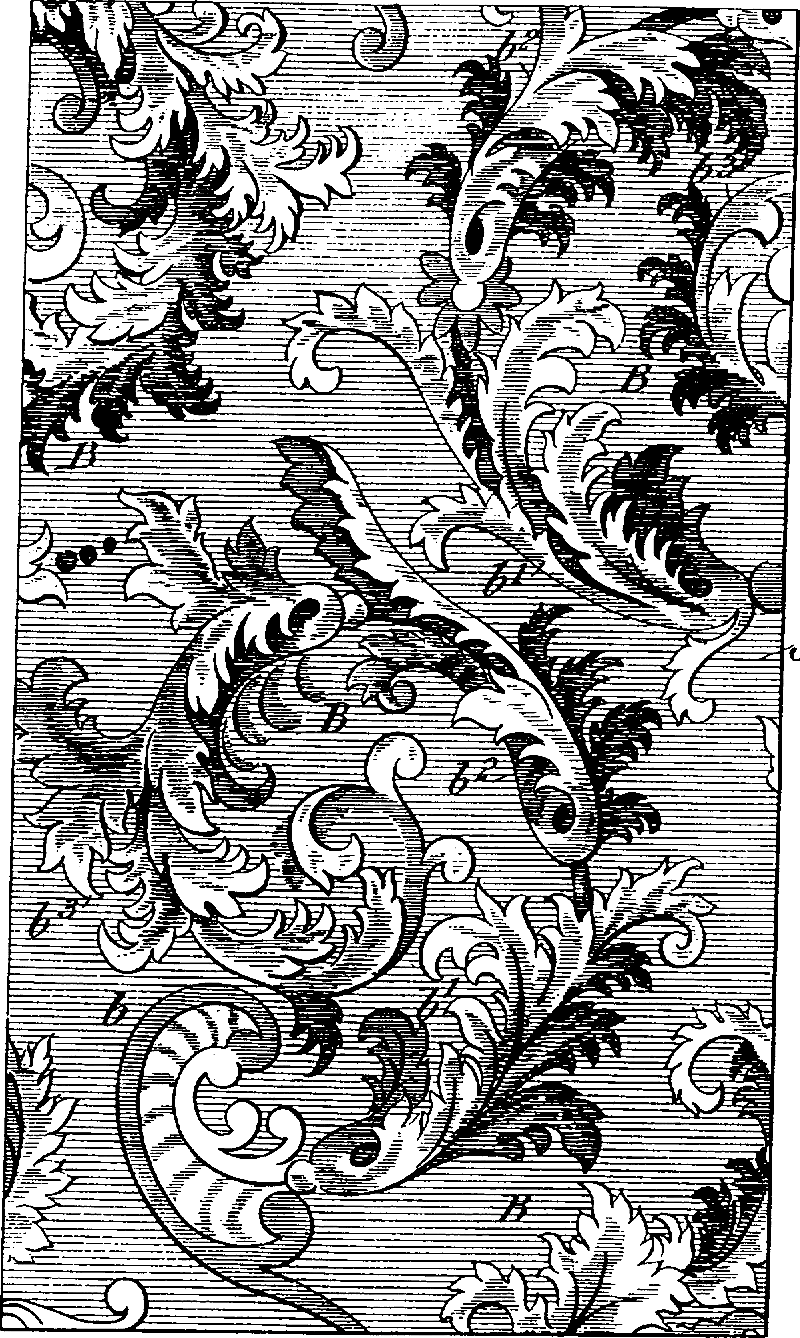
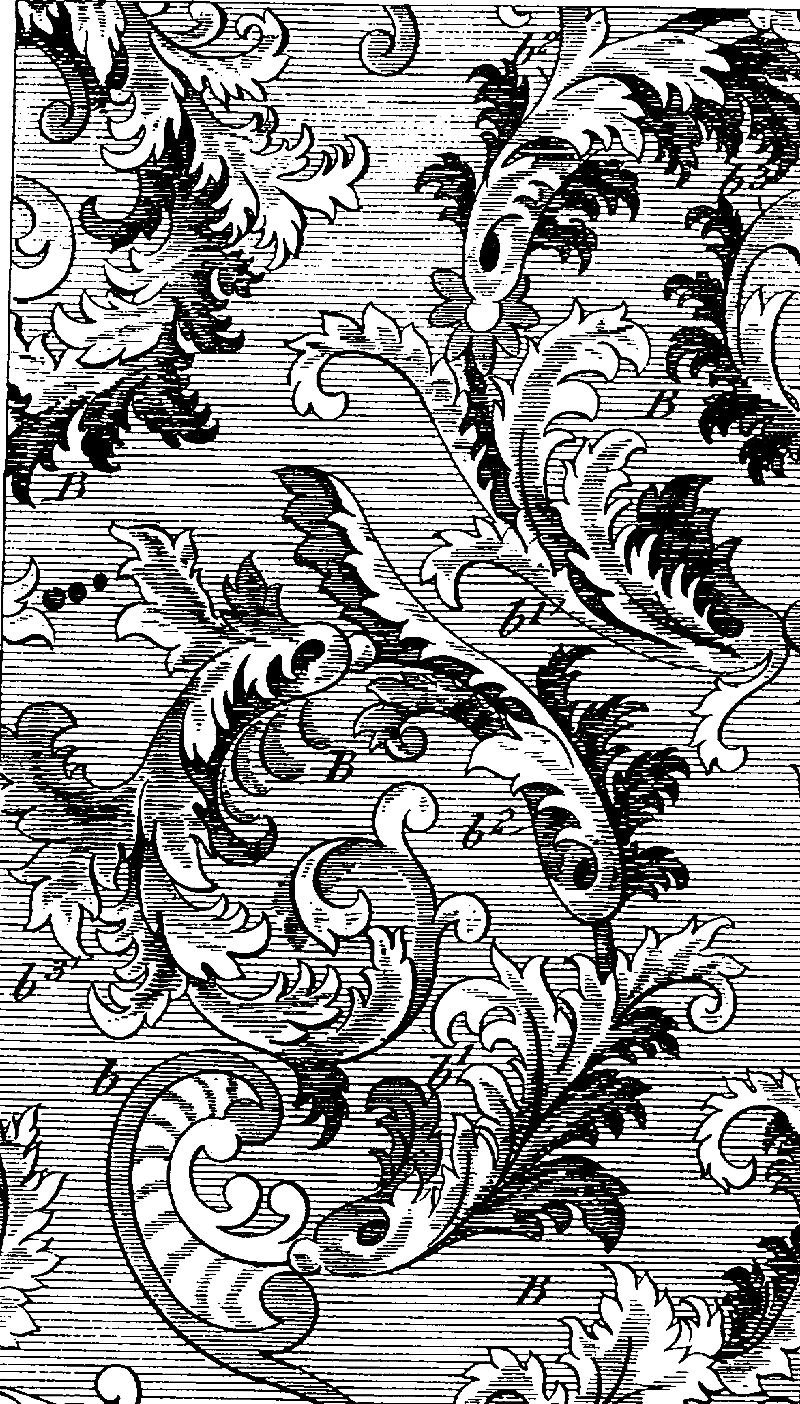
fix: close visible gap between 1896 carpet header tiles (#21)
The initial crop for images/pmr-carpet-1896-mask.png (content bbox by a
flat 2%-ink threshold) let a blank-paper margin into the tile -- ink
density faded from the pattern's typical ~35-48% down to ~3-16% over the
outer ~20px on the left/right edges. Adjacent tiles abutted that fade
band instead of continuous pattern, showing as a vertical gap once tiled
across a full page width in production (not visible in the narrower
local screenshot check).

Re-cropped inward past the fade band -- (38,14)-(978,1664) from the
original supplied image, vs. the earlier (18,14)-(1022,1693) -- located
via a column/row ink-density profile. Re-verified with a 3x3 tile test
and a fresh four-theme screenshot before shipping. Derivation notes and
the corrected bounds are in images/pmr-carpet-1896-SOURCE.md.

Claude-Session: https://claude.ai/code/session_01UXiQ7wudC3AxgGH66UcMYa

diff --git a/README.md b/README.md
@@ -255,6 +255,7 @@ Corrections, additional patents, and better sourcing are welcome — open an iss
 - **Added a faint carpet texture to the header banner**, replacing the flat `--header-bg` fill with the same USD28,278 (Crowe, 1898, expired design patent) weave used as the page-wide background on postmillenniumrenaissance.com. Implemented as a `header::before` pseudo-element masked with `images/pmr-carpet-1898-mask.png` (copied into this repo from the main site's `images/` folder, with its derivation notes in `images/pmr-carpet-1898-SOURCE.md`), tinted white at 8% opacity since `--header-bg` is dark in all four themes, tiled at a smaller 260px repeat to suit the shorter header band. Purely visual — no data, schema, or JS logic touched. Unverified visually beyond a code read, per this project's "no browser rendering check available" convention; a session with screenshot access should confirm it reads correctly across all four themes before calling it final.
 - **Added Hugo Auguste Becker's 1890 spring-suspended velocipede frame (US 439,095) — the oldest entry in the suspension category, 104 years ahead of the next-earliest (Horst Leitner's 1994 Horst Link).** The user supplied both sheets of the actual patent drawings directly (`pictures/US439095-becker-page-1.png` and `-page-2.png`), which is as close to a primary source as this dataset gets — number, title ("Velocipede"), inventor's own signature, and the Oct. 28, 1890 grant date are all legible straight off the document, independently cross-confirmed by a Google Patents search hit matching the same number, title, and inventor name. Filed Oct. 19, 1889, this predates the post-GATT rule, so `exp` follows the pre-1995 formula (grant + 17 = 1907), not the modern filing + 20 used almost everywhere else in this atlas. The design hinges the frame into front and rear sections, each cushioned by its own coil spring at the joint — cushioning the whole frame rather than isolating wheel travel, a genuinely different approach from every later entry in this category. Tiered `"v"`. Sheet 1 (Fig. 1, the full velocipede) is used as the entry's `img`; sheet 2 (Figs. 2–3, the close-up spring-joint mechanism) is real and sourced but unused for now — this schema supports one image per entry, so it sits in `pictures/` as a candidate for a future multi-image feature rather than being discarded. One thing not independently confirmed this pass: search-summary text named a specific hometown for Becker, but given this session's own recent, direct experience with that summarizer fabricating a detail on an unrelated patent (see the RatioX note above), that claim wasn't trusted enough to repeat here — the entry states only what the primary document and a separate, matching search result actually support. Registered `Hugo Auguste Becker` in `INVENTORS`, following the same one-off-historical-figure precedent as Eugène Meyer and James Starley.
 - **Swapped the header texture to a second Eugene A. Crowe carpet design: US Design Patent 25,495** ("Carpet," patented May 12, 1896, also assigned to the E. S. Higgins Carpet Company — a sibling to USD28,278, the 1898 pattern this replaces in the header and that stays in use as the page-wide texture on postmillenniumrenaissance.com). Same public-domain basis as its sibling (an 1890s design-patent term of at most 14 years, well over a century expired). Jon supplied the plate image directly rather than it being fetched from the PDF link this pass — see `images/pmr-carpet-1896-SOURCE.md` for the full derivation (content-bbox crop, Lanczos downscale to 800px wide, Otsu threshold with a soft ramp into a transparent alpha mask) and the honest caveat on it: the patent number/date/assignee were read off the OCR text supplied alongside the image, not independently re-confirmed against the source PDF, since that host is one of this session's blocked egress targets. Same `header::before` mechanism as before (white at 8% opacity, 260px tile) — only the mask file changed. Visually confirmed via Playwright screenshot across all four themes before shipping.
+- **Fixed a visible gap between header tiles, spotted live on postmillenniumrenaissance.com after the swap above shipped.** The initial 1896 mask crop kept a blank-paper margin (ink density fading toward the outer ~20px on the left/right edges) that the local screenshot check hadn't caught, because at small scale it just looked like faint background rather than a seam — full-page production tiling made it obvious. Re-cropped inward past the fade band (see `images/pmr-carpet-1896-SOURCE.md` for the density-profile method and the corrected crop bounds) and re-verified with a 3×3 tile test plus a fresh four-theme screenshot before re-shipping. Same files, same wiring — only the crop changed.
 - **Added drawing images to the existing Split Pivot entry (US 7,717,212).** The user also supplied `pictures/US7717212B2.png` (Fig. 8, the concentric-pivot bearing/seal stack) and `US7717212B2_b.png` (Fig. 4, the full-bike linkage view) for Dave Weagle's Split Pivot patent, which had no image despite its direct rival, Trek's ABP (US 7,837,213), already carrying one. Used Fig. 8 as the entry's `img` — it's the direct visual counterpart to ABP's own Fig. 5 bearing-stack drawing a few lines down, letting a reader compare the two patents' hardware side by side, and the entry's `w` text now points that comparison out explicitly. Fig. 4 (the full-bike view) is real and sourced but unused for the same one-image-per-entry reason as the Becker page 2 above.
 - **Counts synced**: README At-a-glance table (272→273 total, 90→91 expired, 52→53 named inventors, 151→152 verified) and all seven hardcoded `index.html` count strings (three meta description tags, EN/FR `shareText`, EN/FR `mtBannerText`, the CSS-comment "N-entry data block" note).
 - **Share, copy-link, and cite-this-entry links now point at `postmillenniumrenaissance.com/atlas/` instead of the raw `github.io` URL.** Requested directly: the reader-facing links this tool hands out should look like the product's own address, not its GitHub Pages implementation detail. All four call sites (`cardHTML()`'s `citeUrl`, the per-card share button, and the general Share menu's copy/X/Facebook/Reddit options) now build off a new `SHARE_BASE_URL` constant (`https://postmillenniumrenaissance.com/atlas/`, bare domain to match `og:url` on every other page across pmr-website) instead of `location.origin`/`location.href`, which reflected wherever this document actually loaded from rather than its public address. This works with zero changes needed on the pmr-website side: `atlas/index.html` there already reads its own `location.hash` on load and appends it onto this tool's iframe `src`, so `https://postmillenniumrenaissance.com/atlas/#p=maestro-suspension` already deep-links correctly today, the same way a bare `github.io` link always has — confirmed by reading that file directly rather than assuming. Two URL shapes proposed in the request (`/atlas/maestro`, and a bare `#maestro` without the `p=` prefix) were considered and not used: a path-only form needs real server-side routing this static, no-build GitHub Pages site doesn't have (would mean pre-generating a real file per patent slug, a maintenance burden every future entry would inherit), and a bare-slug hash needs a second, parallel parsing branch alongside the existing structured `#p=`/`#cat=`/`#q=` scheme this tool's `HASH_SETS`-based router already handles — both flagged as the kind of restructuring this file's own conventions say to raise before doing, not fold into a same-pass link-format change. The existing internal address-bar-sync behavior (`syncHash()`/`history.replaceState`, used for the browser back button and bookmarking while standalone) is untouched — it still reflects wherever this document is actually running, which is a different, narrower job than the public share link now does; both are now documented separately under *Embedding in Pinkbike or similar platforms* above, where they used to be one conflated paragraph.

diff --git a/images/pmr-carpet-1896-SOURCE.md b/images/pmr-carpet-1896-SOURCE.md
@@ -21,20 +21,30 @@ constraint below).
 **How the assets were made:**
 1. Started from the plate image as supplied (1098×1710px), no PDF re-render
    available this pass — see constraint note below.
-2. Found the content bounding box by per-row/per-column ink-density
-   thresholding (rows/cols above 2% ink), trimming the surrounding margin —
-   crop: (18, 14)–(1022, 1693), 1004×1679px.
-3. Verified seamlessness by tiling 3×3 at full resolution and inspecting the
-   result: the B/B²/b/b²/b³ reference-letter clusters rejoin correctly
-   across the boundary, matching the sibling pattern's own verification
-   method. A faint vertical/horizontal seam from the crop edge is visible at
-   full resolution but reads as part of the engraving's own hachure grain at
-   the size and opacity this mask is actually used at (8% opacity, 260px
-   tile in the header).
-4. Downscaled to 800px wide (1338px tall) with Lanczos resampling before
-   thresholding, same as the sibling asset, so the fine hachure lines
-   average into clean gray instead of aliasing into moiré.
-5. Otsu-thresholded (threshold 135 on the downscaled grayscale) with a soft
+2. First pass found the content bounding box by per-row/per-column
+   ink-density thresholding (rows/cols above 2% ink): crop (18, 14)–(1022,
+   1693), 1004×1679px. **This crop shipped initially and produced a visible
+   vertical gap between tiles in production** — the 2%-ink threshold let a
+   genuine blank-paper margin (ink density fading from the pattern's typical
+   ~35–48% down to ~3–16% over roughly the outer 20px on the left/right
+   edges) into the crop, so adjacent tiles abutted a strip of near-empty
+   canvas instead of continuous pattern. A full column/row density profile
+   (20px bands across the whole crop) made the fade bands visible and
+   located the true edge of the repeat content.
+3. **Corrected crop**, trimmed inward past the fade bands: (38, 14)–(978,
+   1664) from the original supplied image, 940×1650px. Row density was
+   already consistent edge-to-edge (no comparable vertical fade), so only
+   the left/right/very-bottom margin needed trimming.
+4. Verified seamlessness by tiling 3×3 at full resolution: the B/B²/b/b²/b³
+   reference-letter clusters rejoin correctly across the boundary with no
+   visible seam, matching the sibling pattern's own verification method —
+   confirmed again after the crop correction, at the actual 260px header
+   tile size and 8% opacity, before shipping the fix.
+5. Downscaled to 800px wide (1404px tall, from the corrected crop) with
+   Lanczos resampling before thresholding, same as the sibling asset, so
+   the fine hachure lines average into clean gray instead of aliasing into
+   moiré.
+6. Otsu-thresholded (threshold 134 on the downscaled grayscale) with a soft
    ±18-level ramp, written out as a transparent alpha mask — ink opaque,
    paper transparent, RGB left at zero — so any element can tint it via
    `mask-image` + `background-color`.
@@ -47,7 +57,7 @@ constraint below).
   (`#1a1a1a`) ink on transparent, kept as a plain reference if you want to
   see it without a theme tint.
 
-**Ink coverage:** ~38.6% at the 800px-wide working resolution — dense, same
+**Ink coverage:** ~39.5% at the 800px-wide working resolution — dense, same
 reasoning as the sibling asset (a real woven-carpet pattern, not drawn to
 read as a faint watermark on its own). Applied at low opacity in actual use
 (8% in the atlas header) rather than displayed at full strength.
